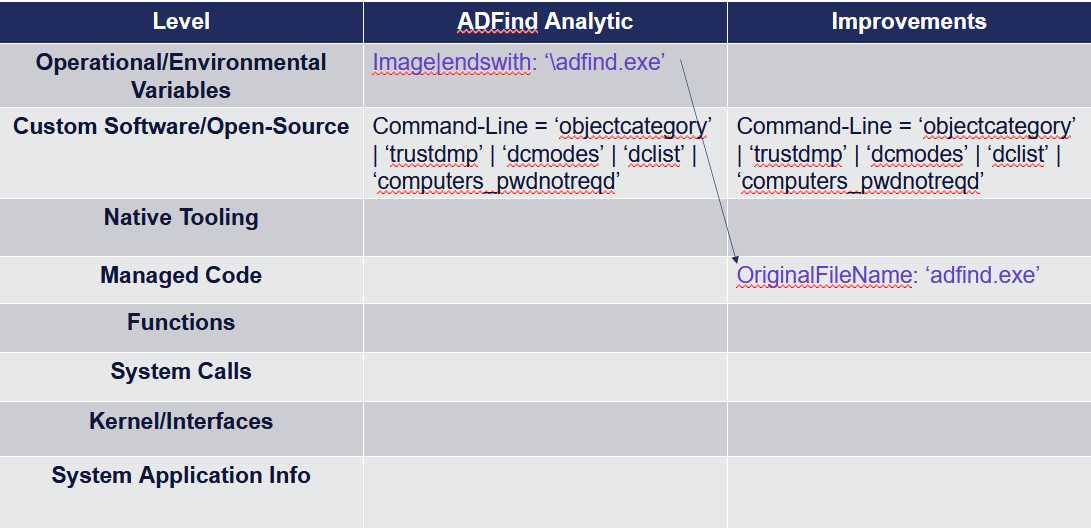
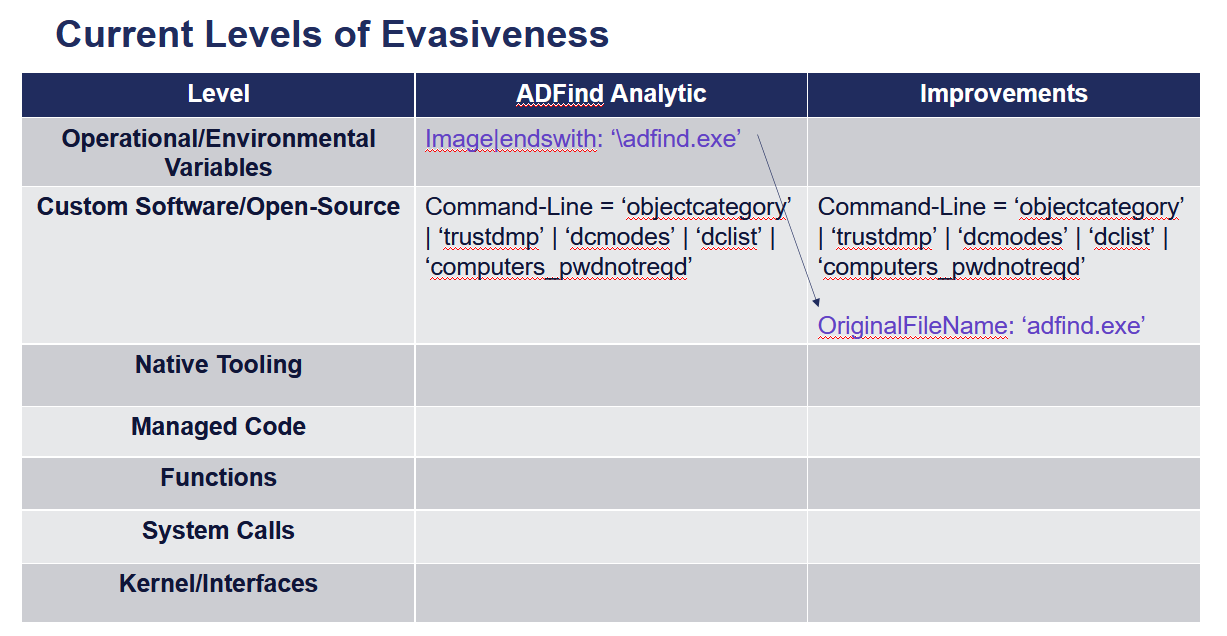
Changes to methodology post part 2

diff --git a/docs/methodology.rst b/docs/methodology.rst
@@ -3,7 +3,7 @@ Summit the Pyramid
 
 Goal of Summiting the Pyramid
 -----------------------------
-The Pyramid of Pain has been used by detection engineers to determine the cost or “pain” it would take for an adversary to change their method of attack. Starting at the bottom, changing indicators of hash values, IP addresses, and domains are trivial for an adversary to change and continue their attack. Indicators further up the pyramid, including network and host artifacts and tools, are not only more difficult for an adversary to change, but also take time and money from the adversary. Finally, Tactics, Techniques, and Procedures (TTPs), outlined by the MITRE ATT&CK Framework, describe an adversaries behavior when attempting to accomplish certain goals, and how they accomplish those goals. These are the hardest for adversaries to develop, as behaviors are limited by the environment they are acting in.
+The Pyramid of Pain has been used by detection engineers to determine the cost or “pain” it would take for an adversary to evade defenses that are effective at that level of the pyramid. Starting at the bottom, changing indicators of hash values, IP addresses, and domains are trivial for an adversary to change and continue their attack. Indicators further up the pyramid, are more difficult for an adversary to change and consume more time and money from the adversary. Finally, Tactics, Techniques, and Procedures (TTPs), outlined by the MITRE ATT&CK Framework, describe an adversary’s behavior when achieving their goals. New TTPs are the hardest for adversaries to develop, as behaviors are limited by the environment they are acting in.
 
 .. figure:: _static/pyramid_of_pain.png
    :alt: Pyramid of Pain - Created by David Bianco (http://detect-respond.blogspot.com/2013/03/the-pyramid-of-pain.html)
@@ -11,7 +11,9 @@ The Pyramid of Pain has been used by detection engineers to determine the cost o
 
    Pyramid of Pain - Created by David Bianco
 
-Knowing this information in the Pyramid of Pain, detection engineers understand how precise or robust their analytics might be when detecting adversarial behavior. A detection analytic focused on identifying hash values will be precise in detecting a snapshot of malware, but will not detect a variant of that malware that has been altered by an adversary. A detection at the tool level might be more robust in detecting various attacks engaged by the adversary, but will create more false positives and could even pick up normal activity if the tool is native to the OS. Some analytics might have a combination of various indicators to increase both the preciseness and recall of an adversary attack. Capability Abstraction, developed by SpecterOps, has been able to map out certain data sources which can be evaded by adversaries for specific types of attacks. For example, multiple tools can accomplish the creation of a new service. However, they all utilize the same registry key within the Registry Service Database. If an adversary wanted to evade detection at the tool level, they could edit the source and start a new service at the registry key.
+Detection engineers can leverage the Pyramid of Pain to understand how precise or robust their analytics might be when detecting adversarial behavior. A detection analytic focused on identifying hash values will be precise in detecting a snapshot of malware but will not detect a variant of that malware that has been altered by an adversary. A detection at the tool level might be robust in detecting specific implementations of a technique but could create more false positives and even pick up benign activity if the implemented tool is native to the OS. Some analytics might use a combination of various indicators to increase both the precision and recall of an adversary attack. Capability Abstraction, a concept developed by SpecterOps, seeks to understand activities that occur on a system when an attacker is accomplishing their goals. It also introduced a visual graphic, known as an “abstraction map”, which conveys the relationships between abstraction layers and begins to highlight how an adversary can evade a specific detection or data source entirely and still accomplish their goals.
+
+The following capability abstraction map for T1050 - New Service illustrates how multiple tools can create a new service. These tools include standard Windows binaries, commonly abused bins, and open-source implementations that an adversary may implement in custom code. These different implementations may call the Windows API differently, which in turn might call different RPC interface and methods. However, ultimately they all utilize the same registry key within the Registry Service Database. If an adversary wanted to evade detection at the tool level, they can create a new service using the Windows API, RPC, or Registry.
 
 .. figure:: _static/new_service_capability_abstraction.png
    :alt: New Service Capability Abstraction - Created by Specter Ops (https://abstractionmaps.com/maps/t1050/)
@@ -19,11 +21,11 @@ Knowing this information in the Pyramid of Pain, detection engineers understand 
 
    New Service Capability Abstraction - Created by Specter Ops (https://abstractionmaps.com/maps/t1050/)
 
-**Analytics are not created equal, just how TTPs are not created equal. How can we crate analytics that will identify adversary behavior and attacks while using the Pyramid of Pain as a reference?**
+**How can we create analytics that detect adversary behavior and attacks while using the Pyramid of Pain and capability abstraction as references?**
 
 The Levels of Evasiveness
 -------------------------
-The “Reverse Pyramid of Evasiveness” attempts to show the relationship between indicators used to detect adversary activities and robustness of resulting analytics in order to determine relative complexity of evasion. As good detection engineers, when analytics are created, the question should be asked, “How difficult would it be for an adversary to evade this analytic?” The Pyramid of Pain shows us how difficult it is for an adversary to change their behavior. The Reverse Pyramid of Evasiveness will focus on detection engineers, understanding how some indicators are more evasive than others, resulting in more robust analytics which detect further into the OS.
+The “Levels of Evasiveness” attempts to show the relationship between indicators used to detect adversary activities and robustness of resulting analytics in order to determine relative complexity of evasion. When analytics are created, the question should be asked, “How difficult would it be for an adversary to evade this analytic?” The Pyramid of Pain shows us how difficult it is for an adversary to change their behavior. The Levels of Evasiveness will focus on understanding how some levels are more evasive than others, resulting in more robust analytics which detect further into the OS.
 
 .. figure:: _static/levels_of_evasiveness.png
    :alt: Levels of Evasiveness
@@ -31,7 +33,7 @@ The “Reverse Pyramid of Evasiveness” attempts to show the relationship betwe
 
    Levels of Evasiveness
 
-While this reverse “pyramid” is used to inform defenders about the state of their analytic, it is not meant to imply judgement of certain analytics. As Jared Atkinson mentioned in his write-up on the Detection Spectrum, “There is a place for precise detections just like there is a place for broad detections” (https://posts.specterops.io/detection-spectrum-198a0bfb9302 ). The reverse pyramid is used to inform how defenders can utilize indicators further down the technical stack to create less evade-able analytics, saving time, resources, and analyst workload. This can be used not only to create new analytics, but to improve current detections. Are there certain indicators which map to indicators further down the technical stack? Creating more defense-in-depth for this environment can be utilized to defend against future adversaries, and inform how to improve current analytic detections.
+While this reverse “pyramid” is used to inform defenders about the state of their analytic, it is not meant to imply judgement of certain analytics. As Jared Atkinson mentioned in his write-up on the Detection Spectrum, “There is a place for precise detections just like there is a place for broad detections” (https://posts.specterops.io/detection-spectrum-198a0bfb9302 ). These levels are used to inform how defenders can utilize indicators further down the technical stack to create less evade-able analytics, saving time, resources, and analyst workload. This can be used not only to create new analytics, but to improve current detections by reducing dependencies on lower levels on the Pyramid of Pain and the Levels of Evasiveness. Creating more defense-in-depth can be utilized to defend against future adversaries, and inform how to improve current analytic detections.
 
 Example: ADFind.exe
 -------------------
@@ -43,7 +45,7 @@ Analytic: ADFind (https://github.com/SigmaHQ/sigma/blob/30bee7204cc1b98a47635ed8
 
    ADFind Analytic
 
-We are given this analytic that looks for specific command line arguments dealing with the ADFind tool. It also looks for the key word ‘\adfind.exe’ within the image path. Looking at the current data sources provided by the analytic and the Pyramid of Evasiveness, we can begin to place where everything is. First, we place Image|endswith: ‘\adfind.exe’ within the **Operational and Environmental Variables** level. While the intention of this analytic is looking for the execution of commands through this tool, this image path can be obfuscated by adversaries within the command line. We put the command line arguments into the **Custom Software and Open Source** level, since these command line arguments are specific to the tool itself. The final placement of the analytic is below. 
+We are given this analytic that looks for specific command line arguments dealing with the ADFind tool. It also looks for the key word ‘\adfind.exe’ within the image path. Looking at the current data sources provided by the analytic and the Levels of Evasiveness, we can begin to place where everything is. First, we place Image|endswith: ‘\adfind.exe’ within the **Operational and Environmental Variables** level. While the intention of this analytic is looking for the execution of commands through this tool, this image path can be obfuscated by adversaries within the command line. We put the command line arguments into the **Custom Software and Open Source** level, since these command line arguments are specific to the tool itself. The final placement of the analytic is below.
 
 .. figure:: _static/adfind_analytic_levels.png
    :alt: ADfind Original Analytic Level Scoring
@@ -51,7 +53,7 @@ We are given this analytic that looks for specific command line arguments dealin
 
    ADFind Analytic scored against Levels of Evasiveness
 
-As it stands, this analytic could be easily evaded by adversaries. **How can we improve this analytic so it is more robust in terms of the tools that could be used to evade it?** We don’t need to improve it down all the way to the system application or kernel layer, so let’s take it one step at a time.
+As it stands, this analytic could be easily evaded by adversaries if they were to rename the binary. **How can we improve this analytic so it is more robust in terms of the tools that could be used to evade it?** We don’t need to improve it down all the way to the system application or kernel layer, so let’s take it one step at a time.
 
 As mentioned previously, adversaries can change the image path name so detection tools do not detect the real tool they are attempting to use. However, they must declare the tool they are using somewhere. Adversaries must embed tools into their malware in order to know where to find the specific file to use. This can be identified through the data source **OriginalFileName**, a data source that is available through parsing in Sysmon. By tracking the embedded file rather than the image name, we can identify the tool the adversary is going to use. We can make the analytic improvements here, which have been highlighted in purple.
 
@@ -61,7 +63,7 @@ As mentioned previously, adversaries can change the image path name so detection
 
    ADFind Analytic after improvements were made based on various indicators
 
-Through this process, we have improved our analytic by just changing one data source to identify adversary behavior and make it more difficult for them to evade detection of this analytic. Not everyone is going to be able to collect Sysmon or make these analytic improvements. However, it gets us thinking of where we can begin to make these small, incremental steps within our environment to create more robust analytics.
+Through this process, we have improved our analytic by just changing one data source to identify adversary behavior and make it more difficult for them to evade detection of this analytic. An adversary could evade this improved analytic by utilizing a hex editor to change the file name there. This highlights the importance of being able to go up the levels and identify different areas for improvement. Not everyone is going to be able to collect Sysmon or make these analytic improvements. However, it gets us thinking of where we can begin to make these small, incremental steps within our environment to create more robust analytics.
 
 Assumptions and Caveats
 -----------------------
